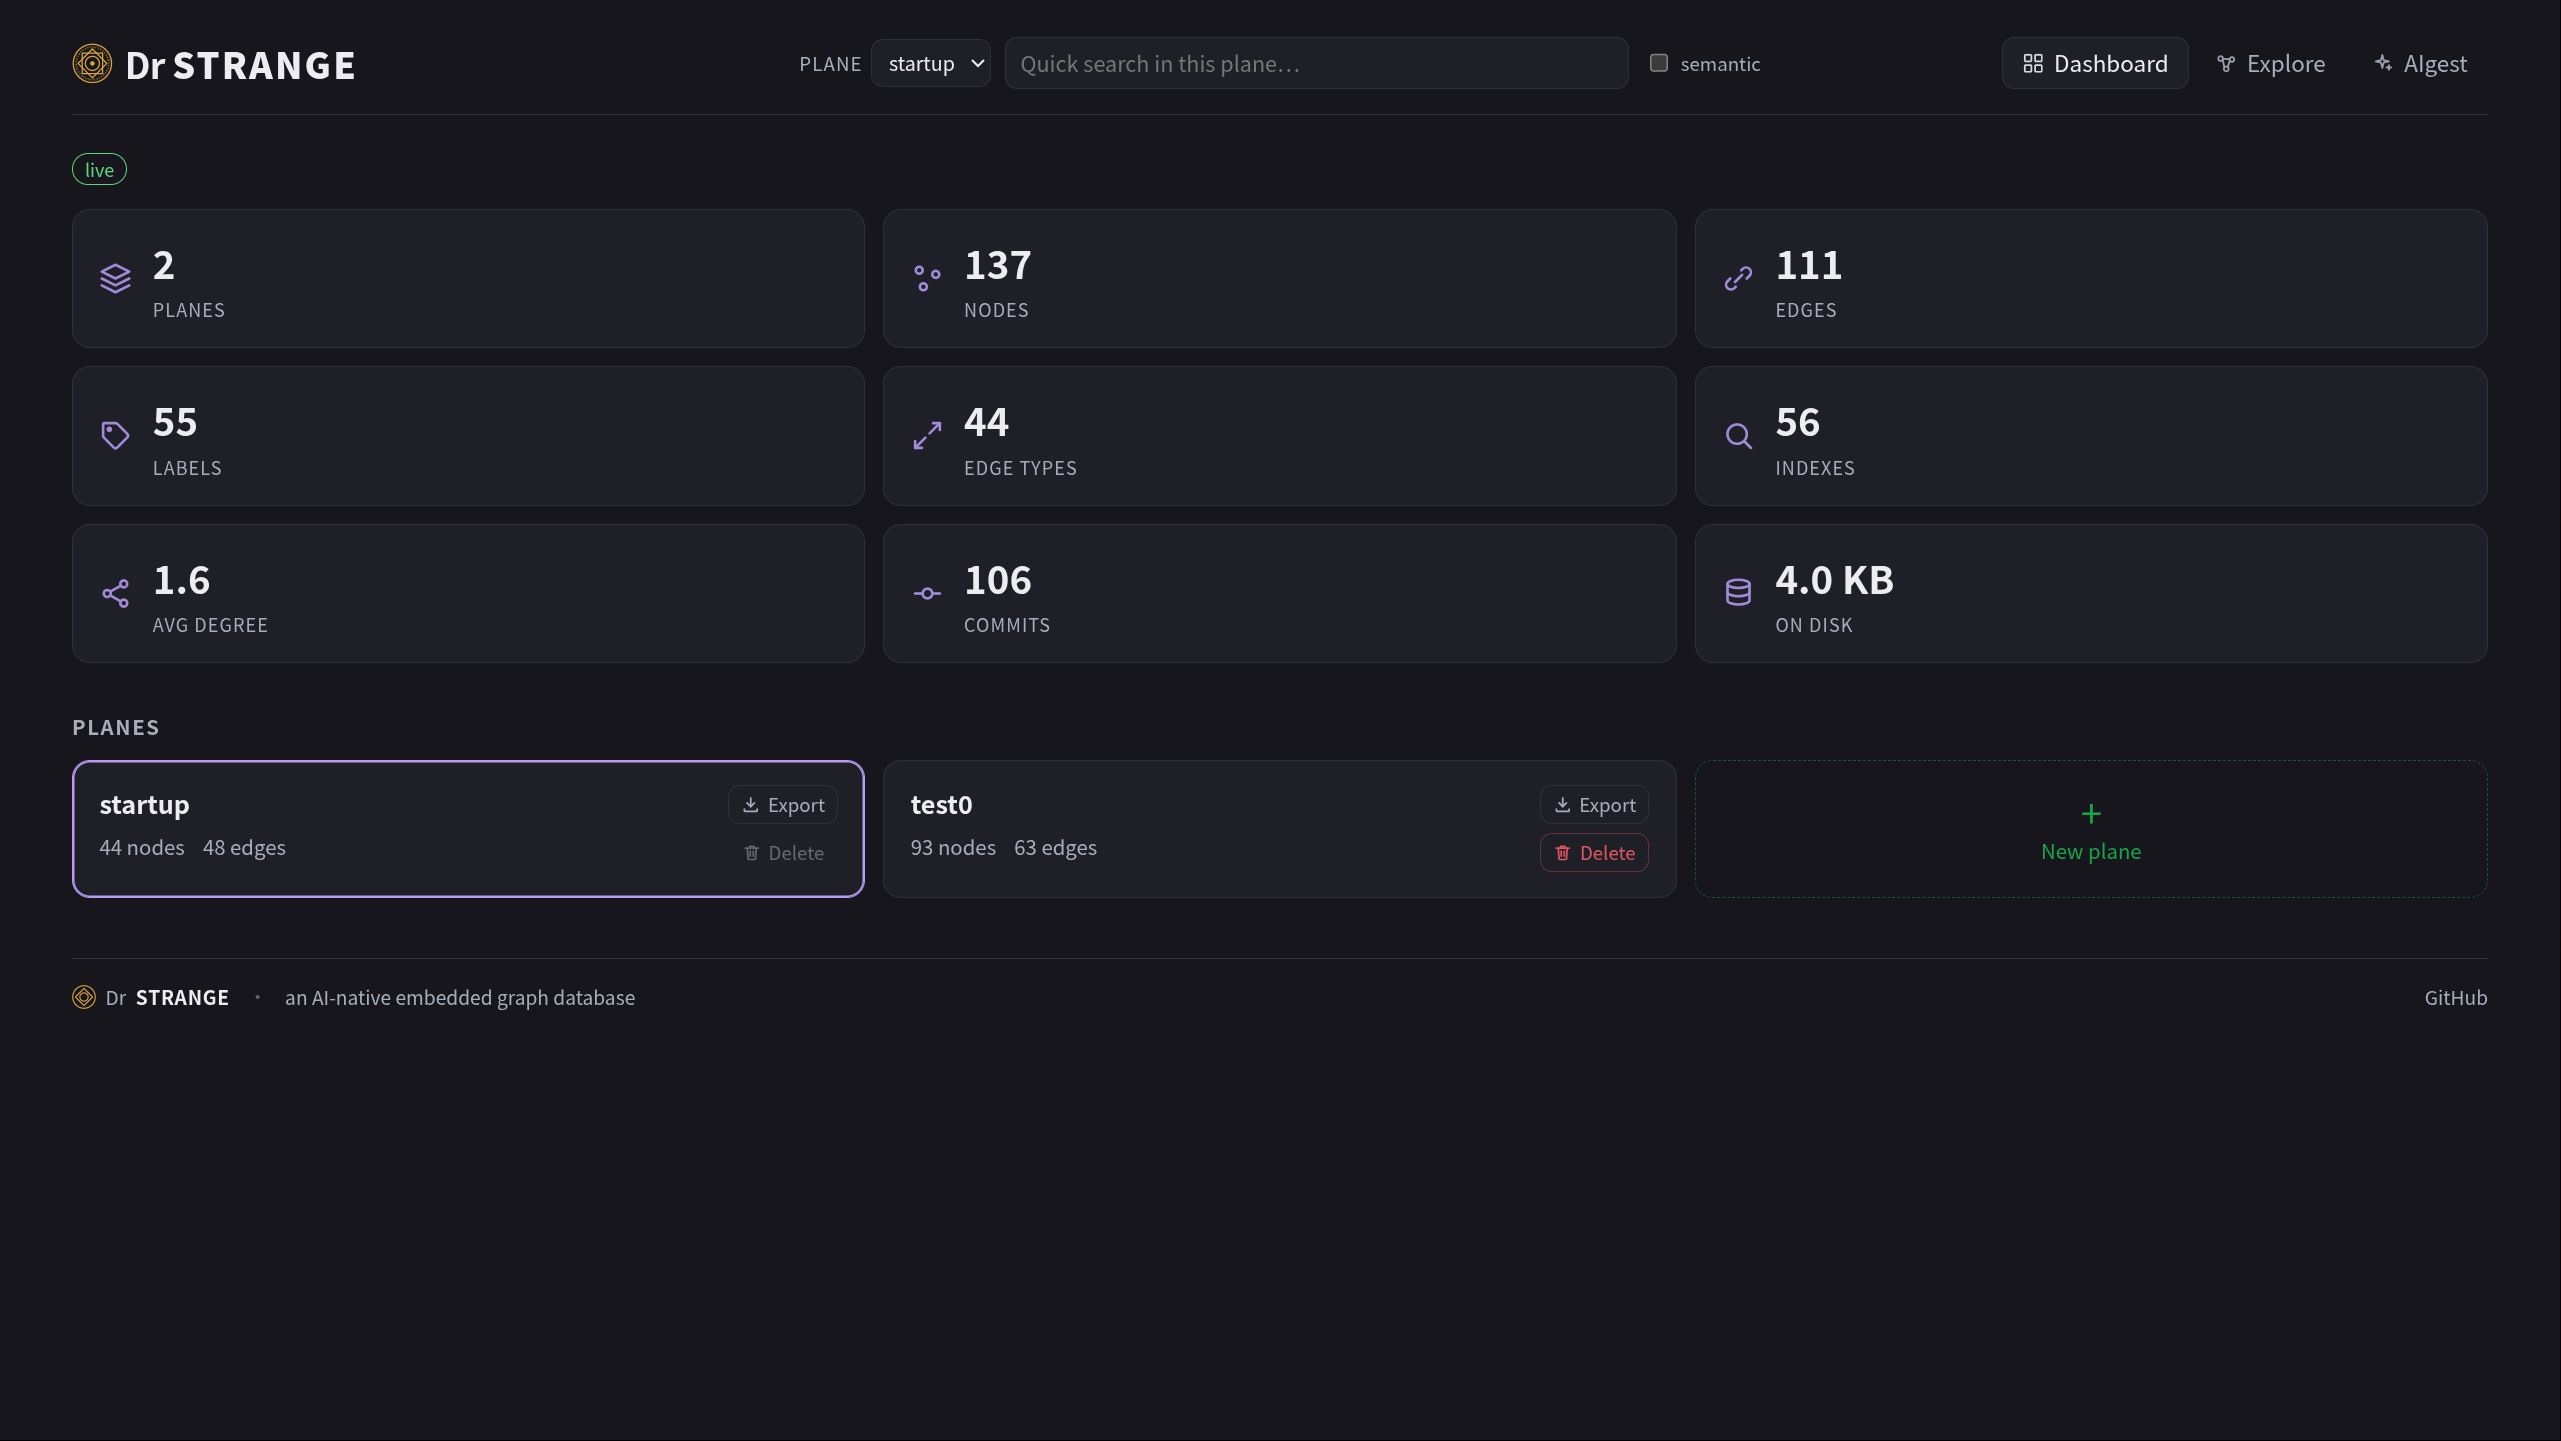
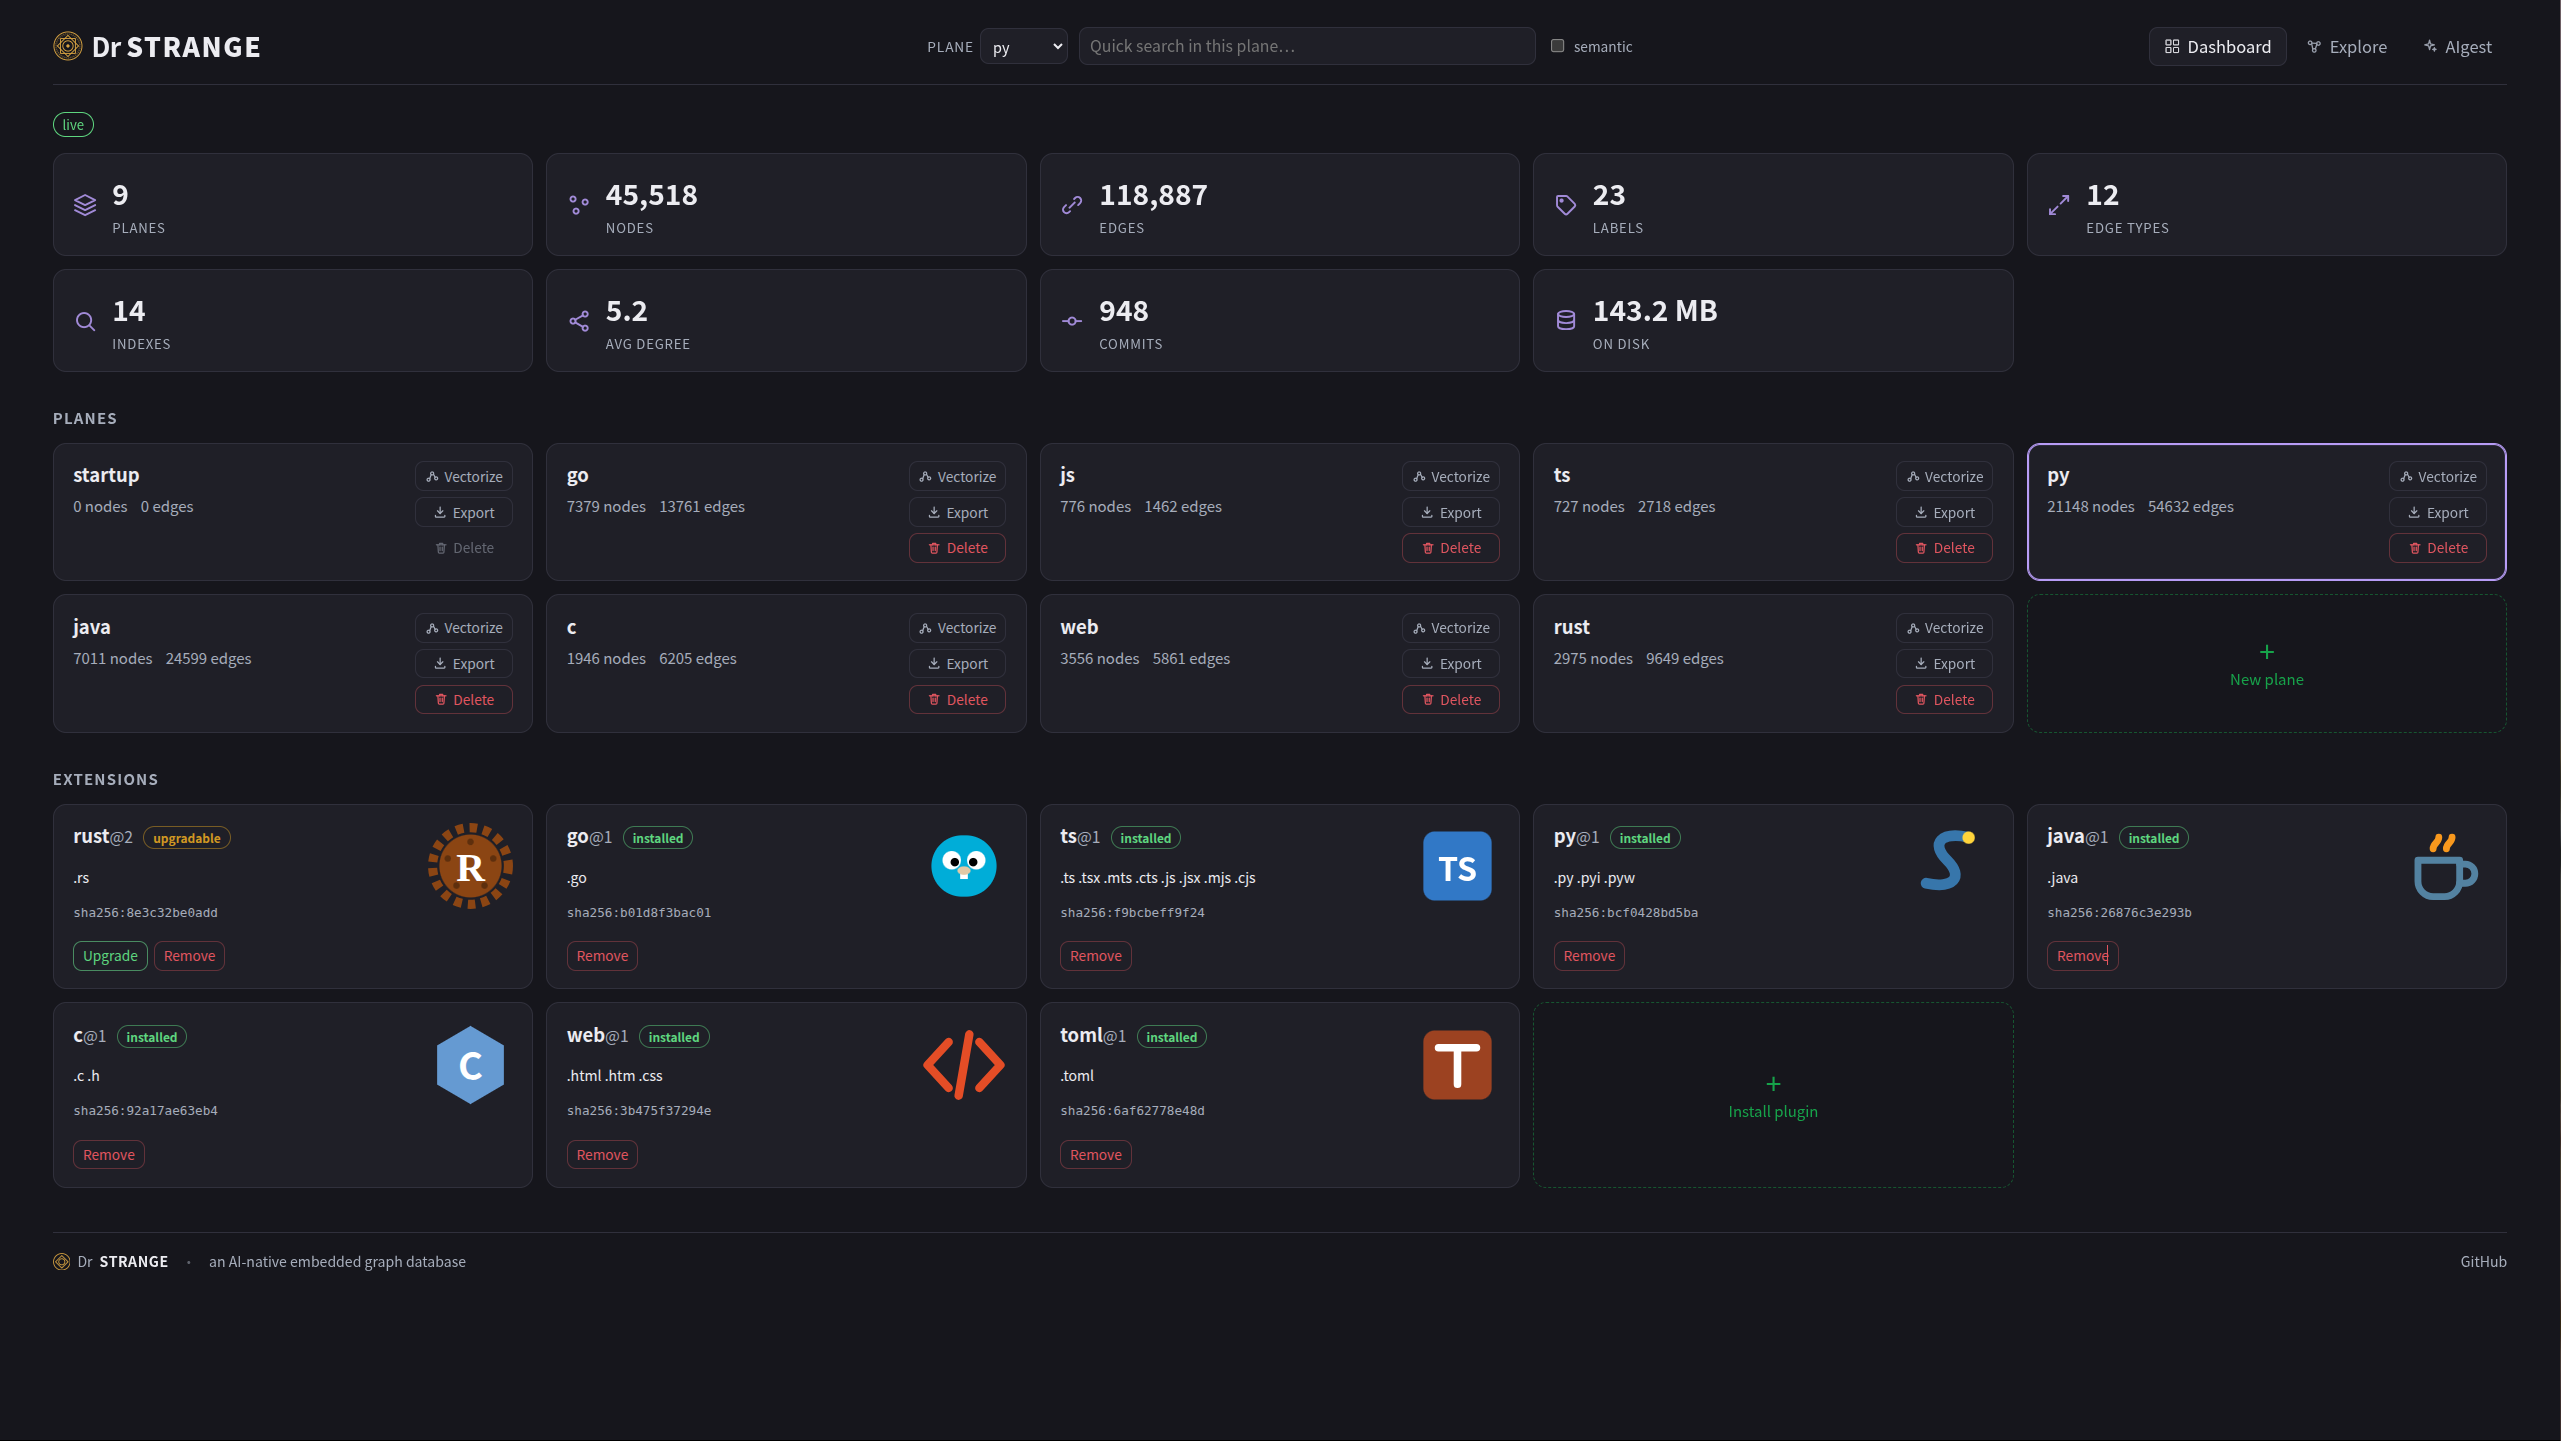
docs(readme): the screenshot gallery gains the code-graph views
00 is retaken with the extensions section on the dashboard; 04 and 05
show a digested plane in Explore - one module's import neighborhood,
and the whole graph with the fact inspector open.

diff --git a/README.md b/README.md
@@ -47,12 +47,16 @@ agent's long-term memory, Dr Strange aims to be the single store for all of it.
 
 <table>
   <tr>
-    <td width="50%"><a href="screenshots/00.jpg"><img src="screenshots/00.jpg" width="100%" alt="Dashboard — plane statistics and management"></a><br><sub><b>Dashboard</b> — live plane statistics and management</sub></td>
+    <td width="50%"><a href="screenshots/00.jpg"><img src="screenshots/00.jpg" width="100%" alt="Dashboard — live statistics, planes, and installed parser plugins"></a><br><sub><b>Dashboard</b> — live statistics, plane management, and the installed parser plugins</sub></td>
     <td width="50%"><a href="screenshots/01.jpg"><img src="screenshots/01.jpg" width="100%" alt="Explore — interactive graph with a node inspector"></a><br><sub><b>Explore</b> — interactive graph with a node inspector</sub></td>
   </tr>
   <tr>
     <td width="50%"><a href="screenshots/02.jpg"><img src="screenshots/02.jpg" width="100%" alt="Algorithms — shortest path on the graph"></a><br><sub><b>Algorithms</b> — PageRank, communities, and shortest path</sub></td>
     <td width="50%"><a href="screenshots/03.jpg"><img src="screenshots/03.jpg" width="100%" alt="AIgest — LLM document ingestion into entities and relations"></a><br><sub><b>AIgest</b> — LLM document ingestion into entities &amp; relations</sub></td>
+  </tr>
+  <tr>
+    <td width="50%"><a href="screenshots/04.jpg"><img src="screenshots/04.jpg" width="100%" alt="Explore — a module's import neighborhood on a digested code plane"></a><br><sub><b>Code graph</b> — one module's import neighborhood on a digested plane</sub></td>
+    <td width="50%"><a href="screenshots/05.jpg"><img src="screenshots/05.jpg" width="100%" alt="Explore — a whole code plane, every fact carrying file, line, and its generating plugin"></a><br><sub><b>Code plane</b> — the whole graph at once; each fact carries file, line, signature, and the plugin that parsed it</sub></td>
   </tr>
 </table>
 
